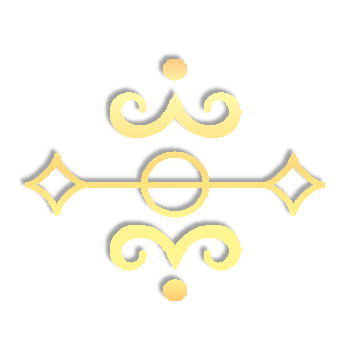
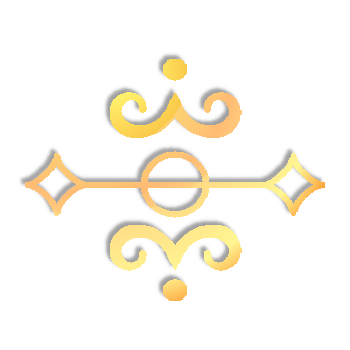
update

diff --git a/src/pages/delavnice.js b/src/pages/delavnice.js
@@ -71,7 +71,7 @@ const Delavnice = () => (
         <div className="pisava-15">
           To je pisava 15. čžšć
           Lorem ipsum dolor sit amet, consectetur adipiscing elit, sed do eiusmod tempor incididunt ut labore et dolore magna aliqua.
-     </div>
+    </div>
         <div className="pisava-16">
           To je pisava 16. čžšć
           Lorem ipsum dolor sit amet, consectetur adipiscing elit, sed do eiusmod tempor incididunt ut labore et dolore magna aliqua.
@@ -88,6 +88,103 @@ const Delavnice = () => (
           To je pisava 19. čžšć
           Lorem ipsum dolor sit amet, consectetur adipiscing elit, sed do eiusmod tempor incididunt ut labore et dolore magna aliqua.
      </div>
+        <div className="pisava-20">
+          To je pisava 20. čžšć
+          Lorem ipsum dolor sit amet, consectetur adipiscing elit, sed do eiusmod tempor incididunt ut labore et dolore magna aliqua.
+     </div>
+        <div className="pisava-21">
+          To je pisava 21. čžšć
+          Lorem ipsum dolor sit amet, consectetur adipiscing elit, sed do eiusmod tempor incididunt ut labore et dolore magna aliqua.
+    </div>
+        <div className="pisava-22">
+          To je pisava 22. čžšć
+          Lorem ipsum dolor sit amet, consectetur adipiscing elit, sed do eiusmod tempor incididunt ut labore et dolore magna aliqua.
+     </div>
+        <div className="pisava-23">
+          To je pisava 23. čžšć
+          Lorem ipsum dolor sit amet, consectetur adipiscing elit, sed do eiusmod tempor incididunt ut labore et dolore magna aliqua.
+     </div>
+        <div className="pisava-24">
+          To je pisava 24. čžšć
+          Lorem ipsum dolor sit amet, consectetur adipiscing elit, sed do eiusmod tempor incididunt ut labore et dolore magna aliqua.
+     </div>
+        <div className="pisava-25">
+          To je pisava 25. čžšć
+          Lorem ipsum dolor sit amet, consectetur adipiscing elit, sed do eiusmod tempor incididunt ut labore et dolore magna aliqua.
+     </div>
+        <div className="pisava-26">
+          To je pisava 26. čžšć
+          Lorem ipsum dolor sit amet, consectetur adipiscing elit, sed do eiusmod tempor incididunt ut labore et dolore magna aliqua.
+    </div>
+        <div className="pisava-27">
+          To je pisava 27. čžšć
+          Lorem ipsum dolor sit amet, consectetur adipiscing elit, sed do eiusmod tempor incididunt ut labore et dolore magna aliqua.
+     </div>
+        <div className="pisava-28">
+          To je pisava 28. čžšć
+          Lorem ipsum dolor sit amet, consectetur adipiscing elit, sed do eiusmod tempor incididunt ut labore et dolore magna aliqua.
+     </div>
+        <div className="pisava-29">
+          To je pisava 29. čžšć
+          Lorem ipsum dolor sit amet, consectetur adipiscing elit, sed do eiusmod tempor incididunt ut labore et dolore magna aliqua.
+     </div>
+        <div className="pisava-30">
+          To je pisava 30. čžšć
+          Lorem ipsum dolor sit amet, consectetur adipiscing elit, sed do eiusmod tempor incididunt ut labore et dolore magna aliqua.
+     </div>
+        <div className="pisava-31">
+          To je pisava 31. čžšć
+          Lorem ipsum dolor sit amet, consectetur adipiscing elit, sed do eiusmod tempor incididunt ut labore et dolore magna aliqua.
+     </div>
+        <div className="pisava-32">
+          To je pisava 32. čžšć
+          Lorem ipsum dolor sit amet, consectetur adipiscing elit, sed do eiusmod tempor incididunt ut labore et dolore magna aliqua.
+     </div>
+        <div className="pisava-33">
+          To je pisava 33. čžšć
+          Lorem ipsum dolor sit amet, consectetur adipiscing elit, sed do eiusmod tempor incididunt ut labore et dolore magna aliqua.
+     </div>
+        {/*         <div className="pisava-34">
+          To je pisava 34. čžšć
+          Lorem ipsum dolor sit amet, consectetur adipiscing elit, sed do eiusmod tempor incididunt ut labore et dolore magna aliqua.
+     </div>
+        <div className="pisava-35">
+          To je pisava 35. čžšć
+          Lorem ipsum dolor sit amet, consectetur adipiscing elit, sed do eiusmod tempor incididunt ut labore et dolore magna aliqua.
+     </div>
+        <div className="pisava-36">
+          To je pisava 36. čžšć
+          Lorem ipsum dolor sit amet, consectetur adipiscing elit, sed do eiusmod tempor incididunt ut labore et dolore magna aliqua.
+     </div>
+        <div className="pisava-37">
+          To je pisava 37. čžšć
+          Lorem ipsum dolor sit amet, consectetur adipiscing elit, sed do eiusmod tempor incididunt ut labore et dolore magna aliqua.
+     </div>
+        <div className="pisava-38">
+          To je pisava 38. čžšć
+          Lorem ipsum dolor sit amet, consectetur adipiscing elit, sed do eiusmod tempor incididunt ut labore et dolore magna aliqua.
+     </div>
+        <div className="pisava-39">
+          To je pisava 39. čžšć
+          Lorem ipsum dolor sit amet, consectetur adipiscing elit, sed do eiusmod tempor incididunt ut labore et dolore magna aliqua.
+     </div>
+        <div className="pisava-40">
+          To je pisava 40. čžšć
+          Lorem ipsum dolor sit amet, consectetur adipiscing elit, sed do eiusmod tempor incididunt ut labore et dolore magna aliqua.
+     </div>
+        <div className="pisava-41">
+          To je pisava 41. čžšć
+          Lorem ipsum dolor sit amet, consectetur adipiscing elit, sed do eiusmod tempor incididunt ut labore et dolore magna aliqua.
+     </div>
+        <div className="pisava-42">
+          To je pisava 42. čžšć
+          Lorem ipsum dolor sit amet, consectetur adipiscing elit, sed do eiusmod tempor incididunt ut labore et dolore magna aliqua.
+     </div>
+        <div className="pisava-43">
+          To je pisava 43. čžšć
+          Lorem ipsum dolor sit amet, consectetur adipiscing elit, sed do eiusmod tempor incididunt ut labore et dolore magna aliqua.
+     </div> */}
+
       </div>
     </div>
   </Layout>

diff --git a/src/css/main.scss b/src/css/main.scss
@@ -1,6 +1,9 @@
 /* @import url('https://fonts.googleapis.com/css?family=Montserrat|Gudea|Hind+Guntur|Michroma|Sulphur+Point|Mallanna|Lora|Handlee');
  */
-@import url("https://fonts.googleapis.com/css?family=Ranga|Glass+Antiqua|Hind+Guntur|Lobster|Playball|Sansita+Swashed|Galada|Farsan|Charm|Kavivanar|Shadows+Into+Light|Lemonada|Montez|Qwigley|Ruge+Boogie|Satisfy|Pacifico|Arizonia|Calligraffitti|Great+Vibes|Allura|Chilanka|Balsamiq+Sans|Marck+Script|Felipa|Bad+Script|Overlock|Grandstander|Bellota+Text|Happy+Monkey|Merienda|Coming+Soon|Handlee|Stalemate|Italianno|Mali|Pangolin|Patrick+Hand|Baloo+Thambi+2|Arima+Madurai|Tangerine");
+@import url("https://fonts.googleapis.com/css?family=Ranga|Glass+Antiqua|Hind+Guntur|Lobster|Playball|Sansita+Swashed|Galada|Charm|Kavivanar|Shadows+Into+Light|Lemonada|Montez|Qwigley|Ruge+Boogie|Satisfy|Pacifico|Arizonia|Calligraffitti|Great+Vibes|Allura|Chilanka|Balsamiq+Sans|Marck+Script|Felipa|Bad+Script|Overlock|Grandstander|Bellota+Text|Happy+Monkey|Merienda|Coming+Soon|Handlee|Stalemate|Italianno|Mali|Pangolin|Patrick+Hand|Baloo+Thambi+2|Arima+Madurai|Tangerine");
+
+// nove pisave
+@import url("https://fonts.googleapis.com/css?family=Grandstander|Dynalight|Open+Sans+Condensed|Cormorant+Upright|Bellota|Forum|Corben|Srisakdi|McLaren|Katibeh|Atma|Life+Savers|Oregano|Farsan");
 
 $dark-red: #640c0c;
 $content-title: #505050;
@@ -107,7 +110,7 @@ ul.right-list-112 {
     font-style: bold;
 }
 .pisave-div {
-    font-size: xx-large;
+    font-size: x-large;
     margin-top: 100px;
 }
 
@@ -239,6 +242,81 @@ ul.right-list-112 {
     font-size: 22px;
     letter-spacing: 0.8px;
 }
+.pisava-20 {
+    font-family: Grandstander;
+    font-style: italic;
+}
+.pisava-21 {
+    font-family: Forum;
+    font-style: italic;
+}
+.pisava-22 {
+    font-family: Corben;
+    font-style: italic;
+}
+.pisava-23 {
+    font-family: McLaren;
+    font-style: italic;
+}
+.pisava-24 {
+    font-family: Oregano;
+    font-style: italic;
+}
+.pisava-25 {
+    font-family: Life Savers;
+    font-style: italic;
+}
+.pisava-26 {
+    font-family: Katibeh;
+    font-style: italic;
+}
+.pisava-27 {
+    font-family: Atma;
+    font-style: italic;
+}
+.pisava-28 {
+    font-family: Farsan;
+    font-style: italic;
+}
+.pisava-29 {
+    font-family: Srisakdi;
+}
+.pisava-30 {
+    font-family: Dynalight;
+}
+.pisava-31 {
+    font-family: Bellota;
+    font-style: italic;
+}
+.pisava-32 {
+    font-family: Cormorant Upright;
+    font-style: italic;
+}
+.pisava-33 {
+    font-family: Open Sans Condensed;
+    font-style: italic;
+}
+.pisava-34 {
+    font-family: Forum;
+}
+.pisava-35 {
+    font-family: Forum;
+}
+.pisava-36 {
+    font-family: Forum;
+}
+.pisava-37 {
+    font-family: Forum;
+}
+.pisava-38 {
+    font-family: Forum;
+}
+.pisava-39 {
+    font-family: Forum;
+}
+.pisava-40 {
+    font-family: Forum;
+}
 
 .blog-text.pisava-17 {
 }
@@ -276,9 +354,10 @@ ul.right-list-112 {
     width: 70%;
 }
 
-.aktualno-li > a {
+.aktualno-li {
     color: rgb(143, 34, 34);
     font-size: larger;
+    list-style: disclosure-closed;
 }
 
 .aktualno-li > div {
@@ -692,7 +771,7 @@ li {
     /** varianta 2 */
     background: linear-gradient(to bottom, #f4f391, #f4db91, #f7ae51, #fd8967, #f4a35d, #f9ee95, #f9ee95);
     /** varianta 4*/
-    background: linear-gradient(to bottom, #fdb154, #f9f0aa, #fff9cb, #fff7da);
+    background: linear-gradient(to bottom, #fdb154, #fff39c, #fdf3a8, #ffbf70);
 }
 
 .quote-text {

diff --git a/src/css/mainMenu.scss b/src/css/mainMenu.scss
@@ -14,7 +14,7 @@ $yellow-bck: #faf46d;
 
 .main-menu-panel {
     position: absolute;
-    margin-top: 666px;
+    margin-top: 566px;
     margin-left: -35px;
     opacity: 1;
     z-index: 99999;
@@ -89,14 +89,13 @@ $yellow-bck: #faf46d;
     color: #000000;
     margin: 0px 10px;
     text-decoration: none;
-    font-size: larger;
+    font-size: large;
     width: auto;
     background-color: transparent;
     border: none;
     padding: 0px 29px;
     display: flex;
     align-items: center;
-    font-style: italic;
     height: 80px;
 }
 /* 
@@ -106,12 +105,10 @@ $yellow-bck: #faf46d;
 .menu-title {
     transition: linear 0.4s;
     text-decoration: none;
-    color: #734938;
+    color: #000000;
     /*   font-weight: bold; */
-    font-family: Glass Antiqua;
+    font-family: Bellota Text;
     font-style: normal;
-    font-weight: bold;
-    letter-spacing: 1px;
 }
 
 a:hover {
@@ -155,10 +152,12 @@ a:hover {
     font-size: large;
     border-bottom: 1px solid #f0afaf;
     font-variant: normal;
+    font-weight: normal;
     color: #000000;
     text-shadow: 1px -1px #f7c5a6;
     padding: 5px 10px;
     transition: linear 0.4s;
+    font-family: Bellota Text;
 }
 
 .main-menu-product-desc:hover {

diff --git a/src/pages/aktualno.js b/src/pages/aktualno.js
@@ -1,5 +1,4 @@
 import React from "react"
-import { Link } from "@reach/router"
 import Layout from "../components/layout"
 
 const Aktualno = () => (
@@ -11,18 +10,12 @@ const Aktualno = () => (
         <ul className="aktualno-ul">
           <br />
           <li className="aktualno-li">
-            <Link id="1"
-              key="1"
-              to="/blog/"
-            > Prepričanje</Link>
+            Prepričanje
             <div>1.11.2020</div>
           </li>
           <br />
           <li className="aktualno-li">
-            <Link id="0"
-              key="0"
-              to="/blog/"
-            > Bel list</Link>
+            Bel list
             <div>15.10.2020</div>
           </li>
           <br />
